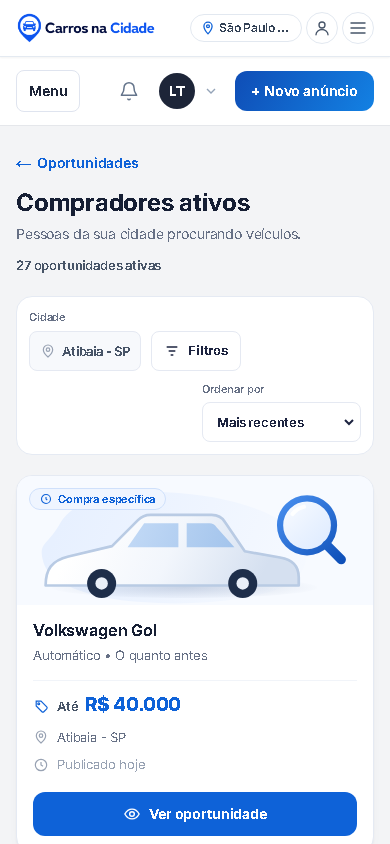
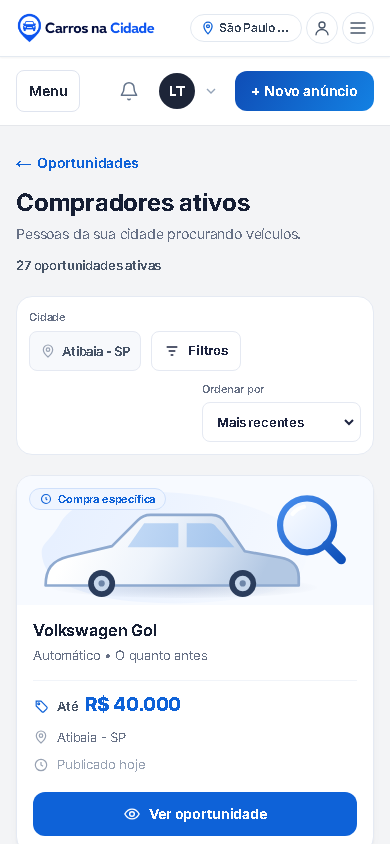
@ fix(compradores-ativos): a lataria volta a ser o assunto da figura
O gradiente da carroceria ia de #FFFFFF a #D5E0F0 — cerca de 8% de
luminância entre o teto e a soleira. A essa amplitude a lataria lê como
silhueta chapada quase branca, e a coisa mais escura do desenho passa a
ser o pneu: #1E2E4A com um miolo quase branco de r=6 dentro de r=14, que
desenha uma argola, não uma roda.

O efeito só aparece no grid inteiro, que é como o lojista lê a tela: nove
cards de relance viravam nove pares de argolas pretas, e a carroceria —
que é justamente o que distingue um card do outro — deixava de ser o
assunto.

As formas já estavam certas e corretas no DOM. Os testes de forma
(data-body-type, path por carroceria) passaram durante o defeito inteiro:
eles provam qual figura foi escolhida, nunca se ela chega ao olho.

Três pontos:
- rampa da lataria fechando em #B3C8E3, com a virada concentrada na
  metade de baixo; o teto segue branco, então o contraste é interno à
  figura e não um escurecimento geral;
- contorno de #B9CBE4 para #8FAAD0;
- roda em três camadas (pneu #2B3D5C r=13, aro #C8D8EC r=7,5, cubo
  #6E86A8 r=3) — a leitura pneu/aro/centro da referência, sem textura.

Nenhum teste fixava essas cores. As dez capturas foram regeradas.

@

Changed region(s): [[0.0923, 0.6161, 0.7692, 0.7085], [0.3077, 0.6161, 0.3385, 0.6469]]

diff --git a/frontend/components/account/opportunities/ActiveBuyerArt.tsx b/frontend/components/account/opportunities/ActiveBuyerArt.tsx
@@ -242,10 +242,25 @@ export default function ActiveBuyerArt({
           <stop stopColor="#E7F0FF" />
           <stop offset="1" stopColor="#F7FAFF" />
         </linearGradient>
+        {/*
+          O VOLUME DA LATARIA VEM DAQUI, E PRECISA DE AMPLITUDE
+
+          A primeira versão ia de #FFFFFF a #D5E0F0 — 8% de luminância entre o
+          teto e a soleira. A essa amplitude a carroceria vira uma silhueta
+          chapada quase branca, e a coisa mais escura da figura passa a ser o
+          pneu: no grid, nove cards lidos de relance viram nove pares de
+          argolas pretas, e as carrocerias (que É o que distingue um card do
+          outro) deixam de ser o assunto.
+
+          A rampa agora fecha em #B3C8E3 e concentra a virada na metade de
+          baixo — que é onde a luz de fato cai numa lataria. O teto continua
+          branco: o contraste é interno à figura, não um escurecimento geral.
+        */}
         <linearGradient id={id("shell")} x1="60" y1="16" x2="220" y2="94" gradientUnits="userSpaceOnUse">
           <stop stopColor="#FFFFFF" />
-          <stop offset="0.5" stopColor="#F2F6FC" />
-          <stop offset="1" stopColor="#D5E0F0" />
+          <stop offset="0.42" stopColor="#EDF3FB" />
+          <stop offset="0.72" stopColor="#D3E0F1" />
+          <stop offset="1" stopColor="#B3C8E3" />
         </linearGradient>
         <linearGradient id={id("glass")} x1="90" y1="14" x2="220" y2="60" gradientUnits="userSpaceOnUse">
           <stop stopColor="#C6DCF7" />
@@ -284,7 +299,7 @@ export default function ActiveBuyerArt({
       <path d={silhouette.shell} fill={`url(#${id("shell")})`} />
       <path
         d={silhouette.shell}
-        stroke="#B9CBE4"
+        stroke="#8FAAD0"
         strokeWidth="2.6"
         strokeLinejoin="round"
         strokeLinecap="round"
@@ -301,8 +316,19 @@ export default function ActiveBuyerArt({
       <g>
         {silhouette.wheels.map((cx) => (
           <g key={cx}>
-            <circle cx={cx} cy="92" r="14" fill="#1E2E4A" />
-            <circle cx={cx} cy="92" r="6" fill="#E9EFF8" />
+            <circle cx={cx} cy="92" r="13" fill="#2B3D5C" />
+            {/*
+              Aro em DOIS passos, não um furo branco.
+
+              Pneu escuro + miolo quase branco (r=6 em r=14) desenhava uma
+              argola: a área clara era pequena demais para ler como aro e
+              grande demais para ler como cubo, então o olho via um anel
+              preto. Com o aro de #C8D8EC ocupando r=7,5 e o cubo por cima, a
+              roda tem a mesma leitura da referência — pneu, aro, centro — sem
+              nenhuma textura.
+            */}
+            <circle cx={cx} cy="92" r="7.5" fill="#C8D8EC" />
+            <circle cx={cx} cy="92" r="3" fill="#6E86A8" />
           </g>
         ))}
       </g>

diff --git a/reports/fase-4-11c-compradores-ativos-cards-premium-2026-08-26.md b/reports/fase-4-11c-compradores-ativos-cards-premium-2026-08-26.md
@@ -180,7 +180,7 @@ vinte cards montam vinte cópias, e `url(#…)` resolve pela PRIMEIRA ocorrênci
 todas as lupas passariam a pintar com o gradiente da primeira, sem um único
 aviso no console. Há teste de unicidade (jsdom) **e** no DOM real (E2E).
 
-**Dois defeitos reais achados na comparação visual e corrigidos:**
+**Três defeitos reais achados na comparação visual e corrigidos:**
 
 1. `viewBox` 320×170 dentro de uma faixa de 104px fazia o SVG ser encaixado por
    ALTURA — sobravam barras laterais e o carro ficava com ~60% da largura
@@ -189,6 +189,29 @@ aviso no console. Há teste de unicidade (jsdom) **e** no DOM real (E2E).
 2. As silhuetas iniciais eram indistinguíveis entre si. Refeitas variando teto,
    comprimento, traseira e distância entre eixos — que é como uma pessoa
    distingue carrocerias de relance.
+3. **A lataria não tinha amplitude tonal, e o pneu virou o assunto da figura.**
+   Achado na revisão, olhando o grid inteiro (`02-buyers-desktop-grid.png`) em
+   vez de um card isolado — que é como o lojista lê a tela.
+
+   O gradiente da carroceria ia de `#FFFFFF` a `#D5E0F0`: ~8% de luminância
+   entre teto e soleira. A essa amplitude a lataria lê como silhueta chapada
+   quase branca, e a coisa mais escura da figura passa a ser o pneu
+   (`#1E2E4A`, com um miolo quase branco de r=6 dentro de r=14, que desenha
+   uma ARGOLA em vez de uma roda). Resultado: nove cards de relance viravam
+   nove pares de argolas pretas, e a carroceria — que é justamente o que
+   distingue um card do outro — deixava de ser o assunto.
+
+   Isto é o inverso do defeito 2: lá as formas eram iguais; aqui as formas já
+   estavam certas e **corretas no DOM**, mas não chegavam ao olho. Os testes de
+   forma (`data-body-type`, path por carroceria) passavam durante o defeito
+   inteiro — eles provam qual figura foi escolhida, nunca se ela é legível.
+
+   Corrigido em três pontos: rampa da lataria fechando em `#B3C8E3` com a
+   virada concentrada na metade de baixo (o teto segue branco — o contraste é
+   interno à figura, não um escurecimento geral); contorno de `#B9CBE4` para
+   `#8FAAD0`; e roda em três camadas (pneu `#2B3D5C` r=13 → aro `#C8D8EC`
+   r=7,5 → cubo `#6E86A8` r=3), que é a leitura pneu/aro/centro da referência,
+   sem textura nenhuma.
 
 ## 10. Cards
 
@@ -377,6 +400,32 @@ azul de largura total **seguem a referência**.
    com revisão de conteúdo.
 
 ## 21. Regressões verificadas
+
+### 21.1 Re-execução na revisão (após a correção 3 da seção 9)
+
+| Suíte | Resultado |
+| --- | --- |
+| `tests/purchase-intents/**` | **306 verdes** (7 arquivos, inclui os 25 do feed) |
+| `ActiveBuyerArt` + `DealerOpportunities` + `PurchaseIntentsPagination` | **63 verdes** |
+| `ActiveBuyerArt.test.tsx` isolado, após a mudança de cor | **18 verdes** |
+| `tsc --noEmit` | limpo |
+| E2E 4.11C | **21/21**, com as dez capturas regeradas |
+
+**Prova de mordida re-executada na revisão:** apagando
+`add("pi.transmission = $?", …)` do repository, **exatamente 2 testes falham**
+(`a contagem respeita os MESMOS filtros da lista` e `câmbio e prazo de compra
+filtram de verdade`). A sabotagem foi revertida e `git diff HEAD` voltou vazio
+antes de qualquer commit.
+
+**Armadilha de execução registrada:** o `webServer` do `playwright.config.ts` só
+sobe com `PW_START_SERVER=1`. Sem essa variável não há servidor, os 21 testes
+morrem no `page.goto` e o placar lê **"21 failed"** — que parece regressão e não
+é. Pior: `npx playwright test … | tail -40` devolve o código de saída do `tail`,
+ou seja **0**, então o run aparenta sucesso enquanto reporta 21 falhas. O
+comando correto é `PW_START_SERVER=1 npx playwright test …` com a saída
+redirecionada para arquivo, nunca canalizada.
+
+### 21.2 Suítes completas (execução original da implementação)
 
 | Suíte | Resultado |
 | --- | --- |
